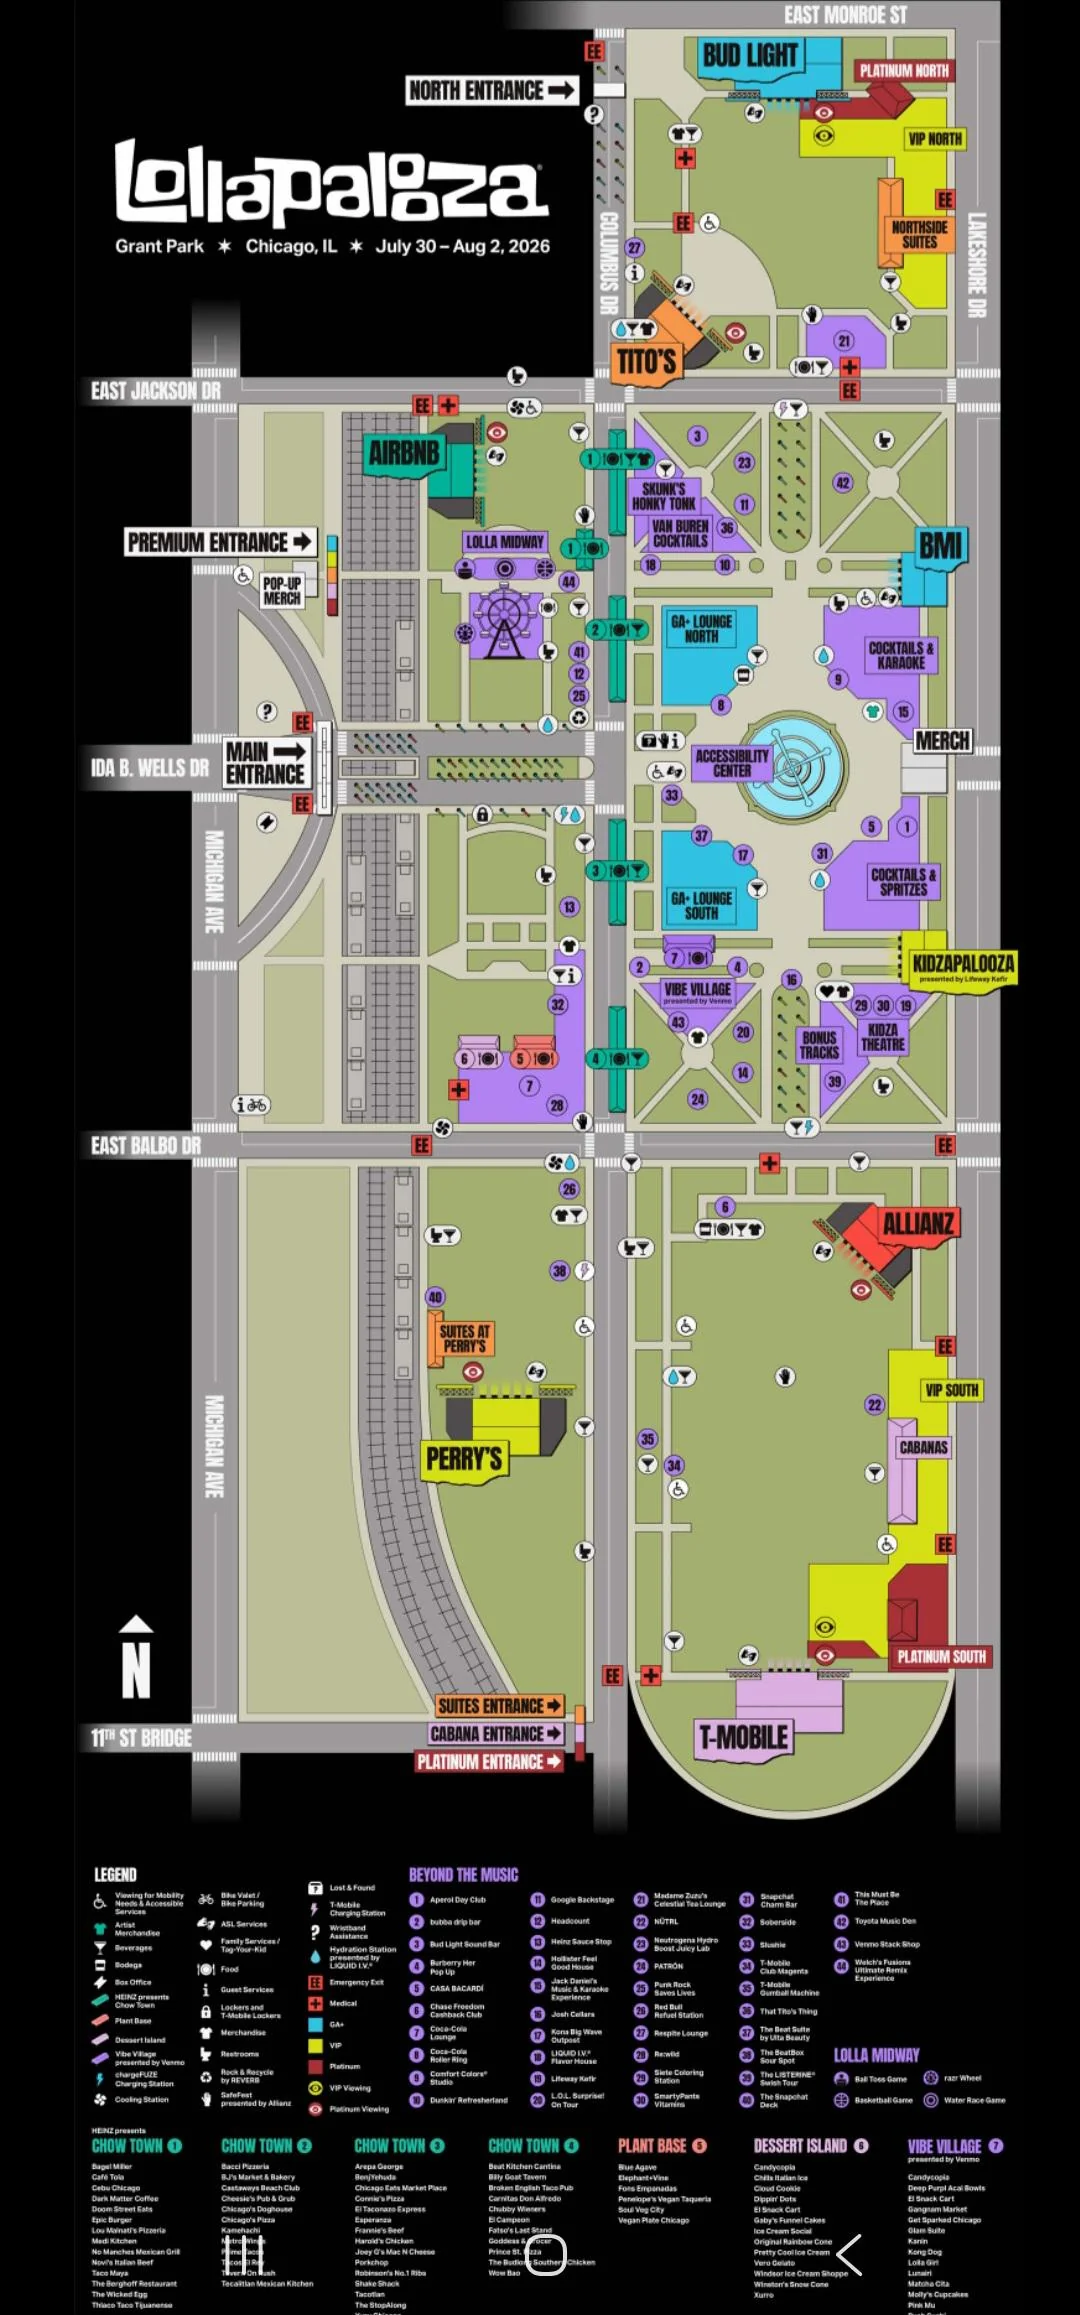
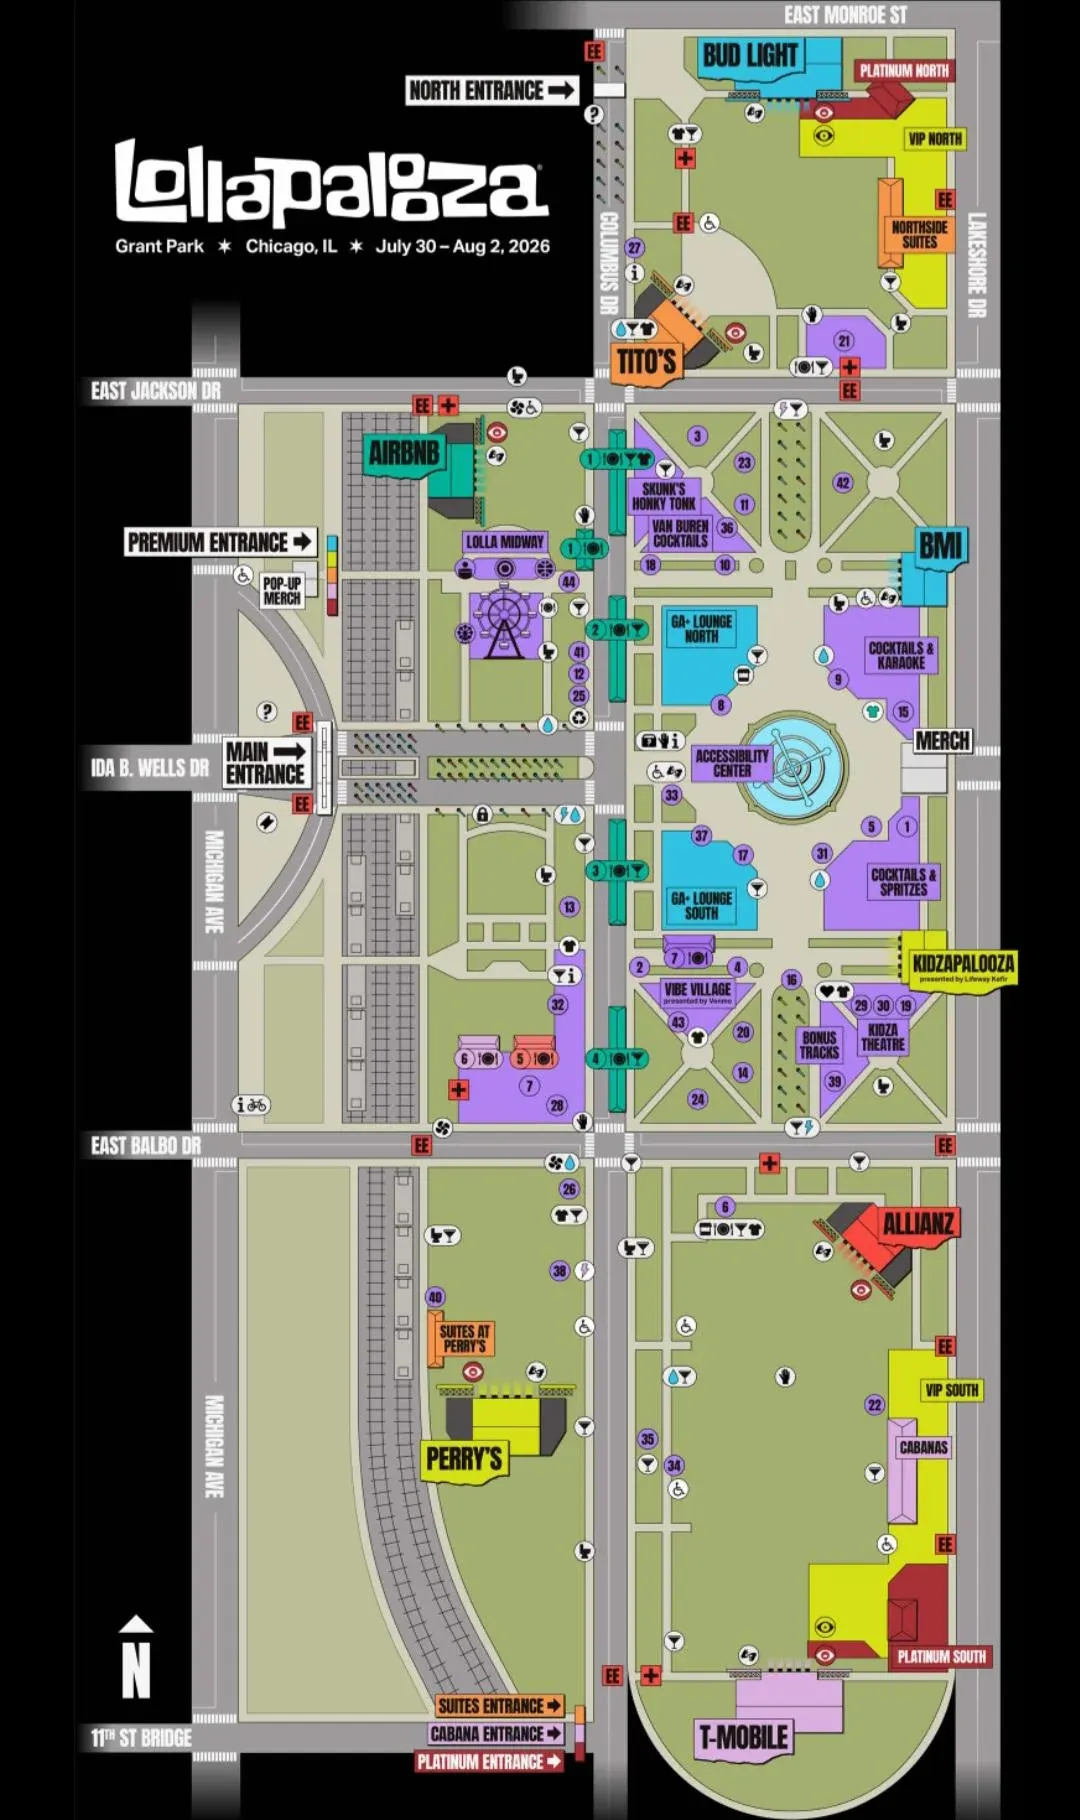
fixing the map

diff --git a/src/lib/amenities.ts b/src/lib/amenities.ts
@@ -10,10 +10,10 @@ export interface AmenityMarker {
 // A deliberately minimal subset of the official map's amenity icons —
 // not a full legend, just enough to be useful.
 export const AMENITIES: AmenityMarker[] = [
-  { id: 'a1', type: 'restroom', mapX: 34, mapY: 56 },
-  { id: 'a2', type: 'water', mapX: 58, mapY: 51 },
-  { id: 'a3', type: 'medical', mapX: 32, mapY: 49 },
-  { id: 'a4', type: 'food', mapX: 15, mapY: 91 },
-  { id: 'a5', type: 'restroom', mapX: 78, mapY: 33 },
-  { id: 'a6', type: 'water', mapX: 46, mapY: 68 },
+  { id: 'a1', type: 'restroom', mapX: 34, mapY: 71 },
+  { id: 'a2', type: 'water', mapX: 58, mapY: 65 },
+  { id: 'a3', type: 'medical', mapX: 32, mapY: 62 },
+  { id: 'a4', type: 'food', mapX: 18, mapY: 74 },
+  { id: 'a5', type: 'restroom', mapX: 78, mapY: 42 },
+  { id: 'a6', type: 'water', mapX: 46, mapY: 87 },
 ];

diff --git a/src/pages/Map/Map.tsx b/src/pages/Map/Map.tsx
@@ -17,7 +17,7 @@ import mapImage from '../../assets/map.webp';
 import './Map.css';
 
 const MAP_WIDTH = 1080;
-const MAP_HEIGHT = 2315;
+const MAP_HEIGHT = 1820;
 
 export function MapPage() {
   const stages = useStages();
@@ -60,7 +60,7 @@ export function MapPage() {
         </button>
       </div>
 
-      <TransformWrapper minScale={0.6} initialScale={0.75} maxScale={3} centerOnInit>
+      <TransformWrapper minScale={0.3} initialScale={0.36} maxScale={3} centerOnInit centerZoomedOut>
         <TransformComponent wrapperClass="map-page__wrapper" contentClass="map-page__content">
           <div className="map-page__canvas" style={{ width: MAP_WIDTH, height: MAP_HEIGHT }}>
             <img className="map-page__image" src={mapImage} alt="Lollapalooza 2026 festival map" draggable={false} />

diff --git a/src/pages/Map/Map.css b/src/pages/Map/Map.css
@@ -36,13 +36,12 @@
 
 .map-page__wrapper {
   flex: 1 1 auto;
-  width: 100%;
-  height: 100%;
-}
-
-.map-page__content {
-  width: 100%;
-  height: 100%;
+  /* react-zoom-pan-pinch's own stylesheet sets width/height: fit-content on
+     this element, which can load after ours and win the cascade — this
+     wrapper is the viewport and must always fill its container regardless. */
+  width: 100% !important;
+  height: 100% !important;
+  touch-action: none;
 }
 
 .map-page__canvas {

diff --git a/src/lib/walking-times.ts b/src/lib/walking-times.ts
@@ -6,7 +6,7 @@ const stages = stagesData as Stage[];
 // Matches the actual map artwork's pixel dimensions (src/assets/map.webp) —
 // kept in sync with Map.tsx's canvas size.
 const MAP_WIDTH = 1080;
-const MAP_HEIGHT = 2315;
+const MAP_HEIGHT = 1820;
 
 // Michigan Ave to Lake Shore Dr spans roughly 70% of the map's width — the
 // grounds don't run edge to edge (there's a black margin/logo strip on the

diff --git a/src/styles/tokens.css b/src/styles/tokens.css
@@ -41,6 +41,7 @@
   /* layout */
   --bottom-nav-height: 64px;
   --safe-bottom: env(safe-area-inset-bottom, 0px);
+  --app-max-width: 560px;
 }
 
 * {
@@ -77,7 +78,7 @@ button {
 
 #root {
   min-height: 100svh;
-  max-width: 560px;
+  max-width: var(--app-max-width);
   margin: 0 auto;
   display: flex;
   flex-direction: column;

diff --git a/src/components/BottomNav/BottomNav.css b/src/components/BottomNav/BottomNav.css
@@ -1,6 +1,10 @@
 .bottom-nav {
-  position: sticky;
+  position: fixed;
   bottom: 0;
+  left: 50%;
+  transform: translateX(-50%);
+  width: 100%;
+  max-width: var(--app-max-width);
   z-index: 40;
   display: flex;
   justify-content: space-around;
